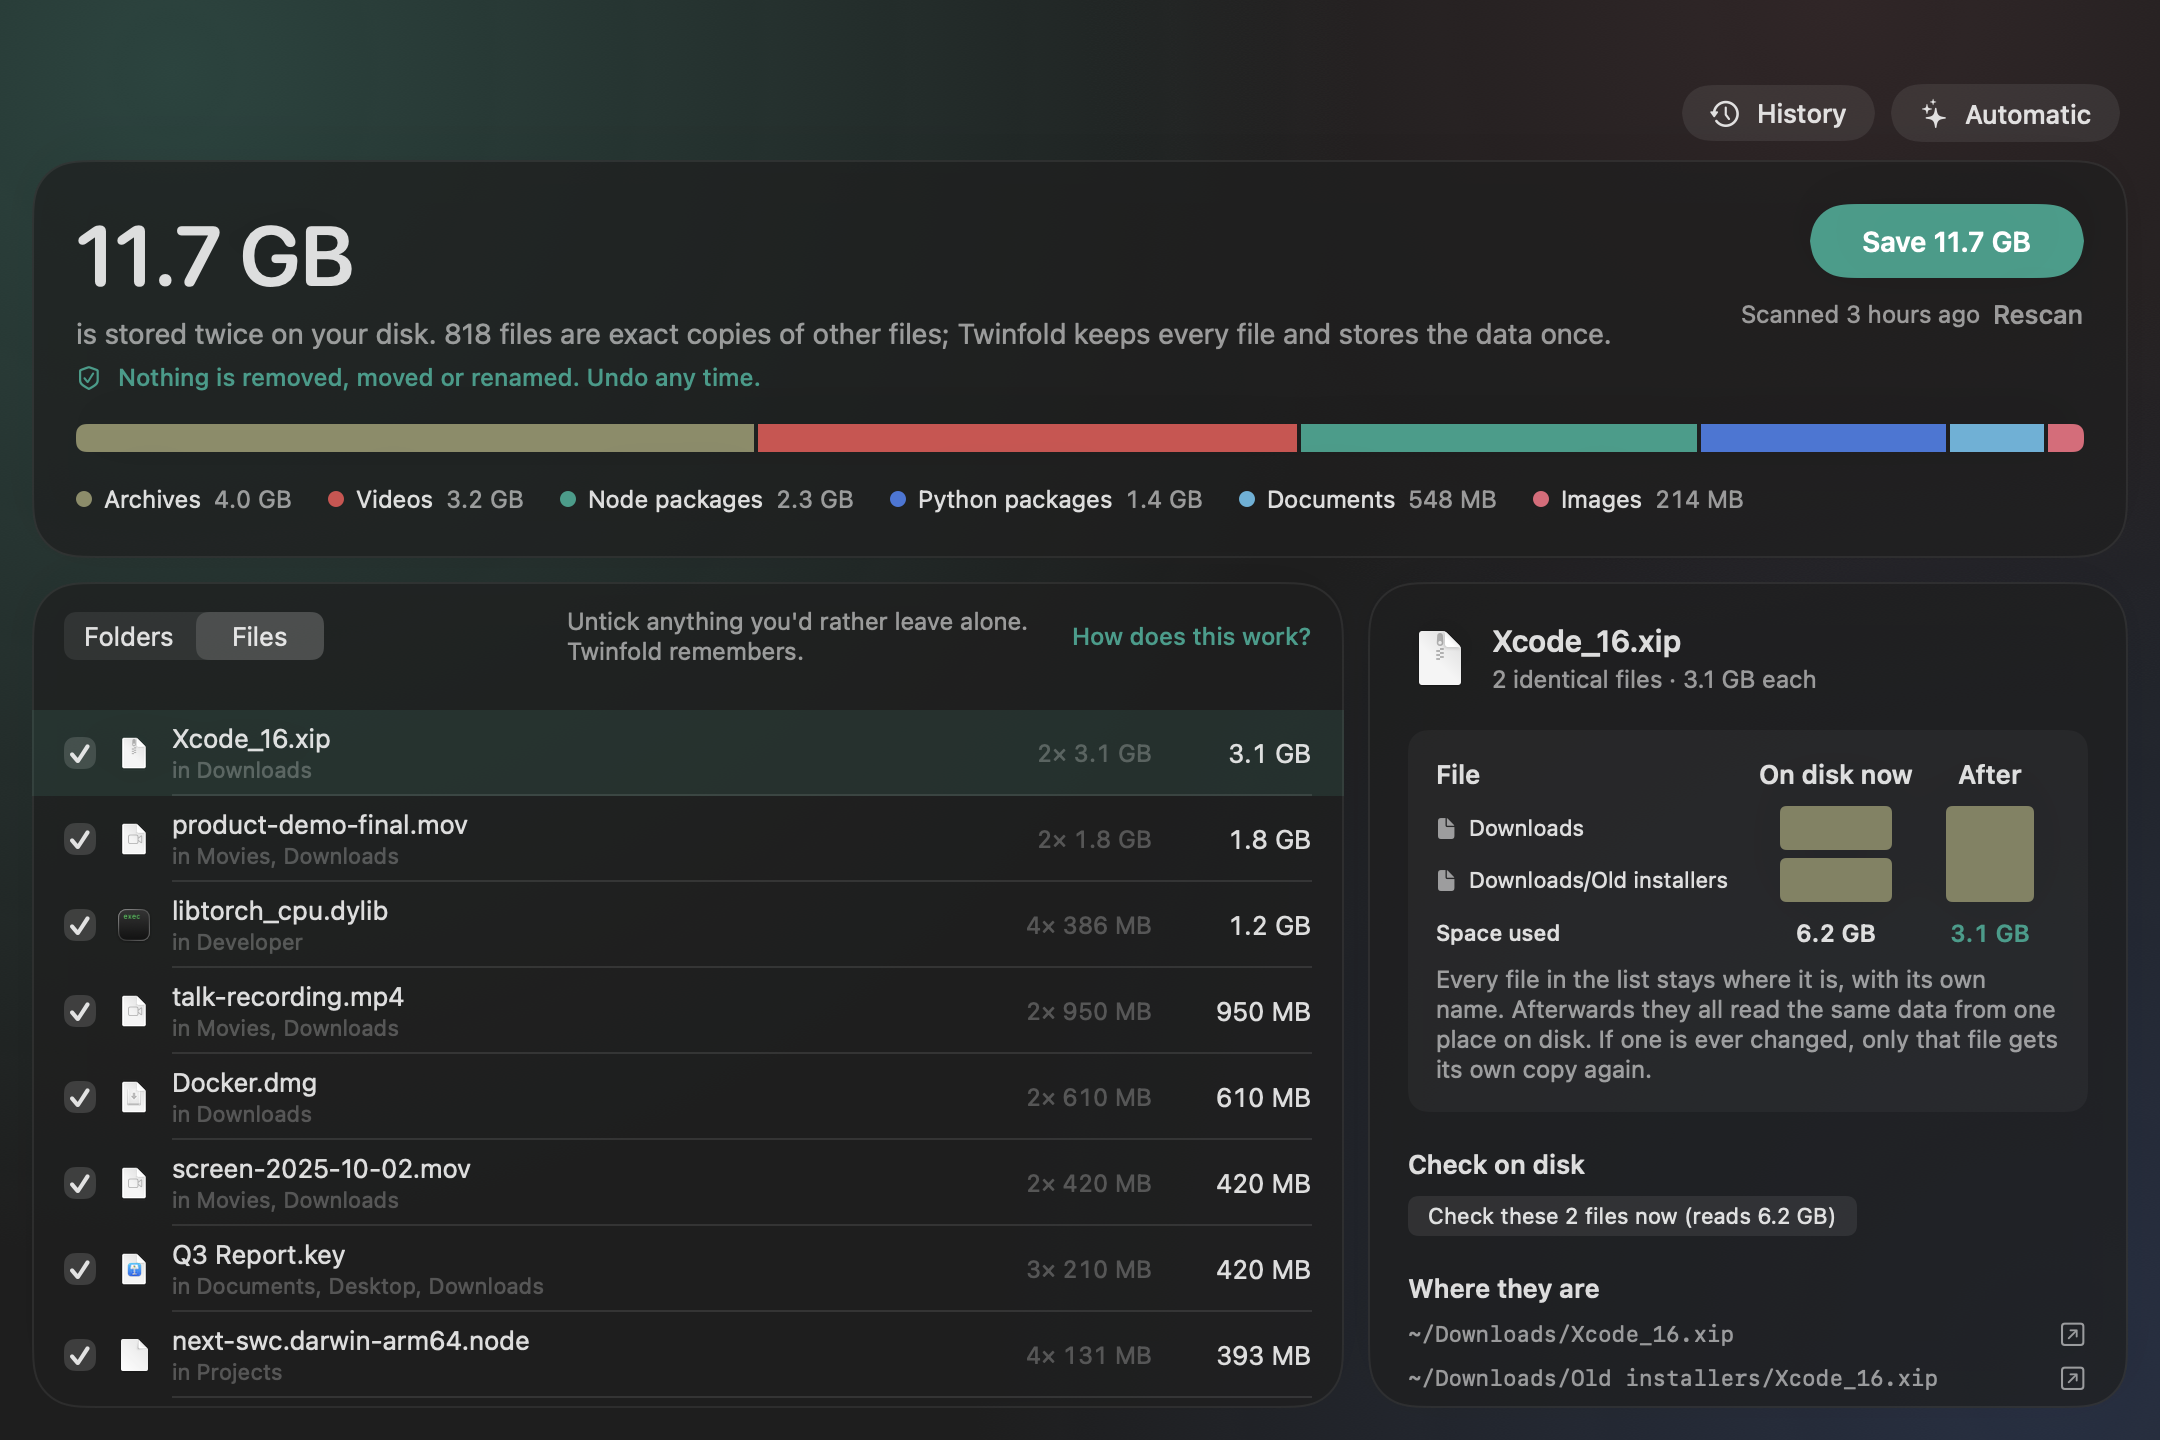
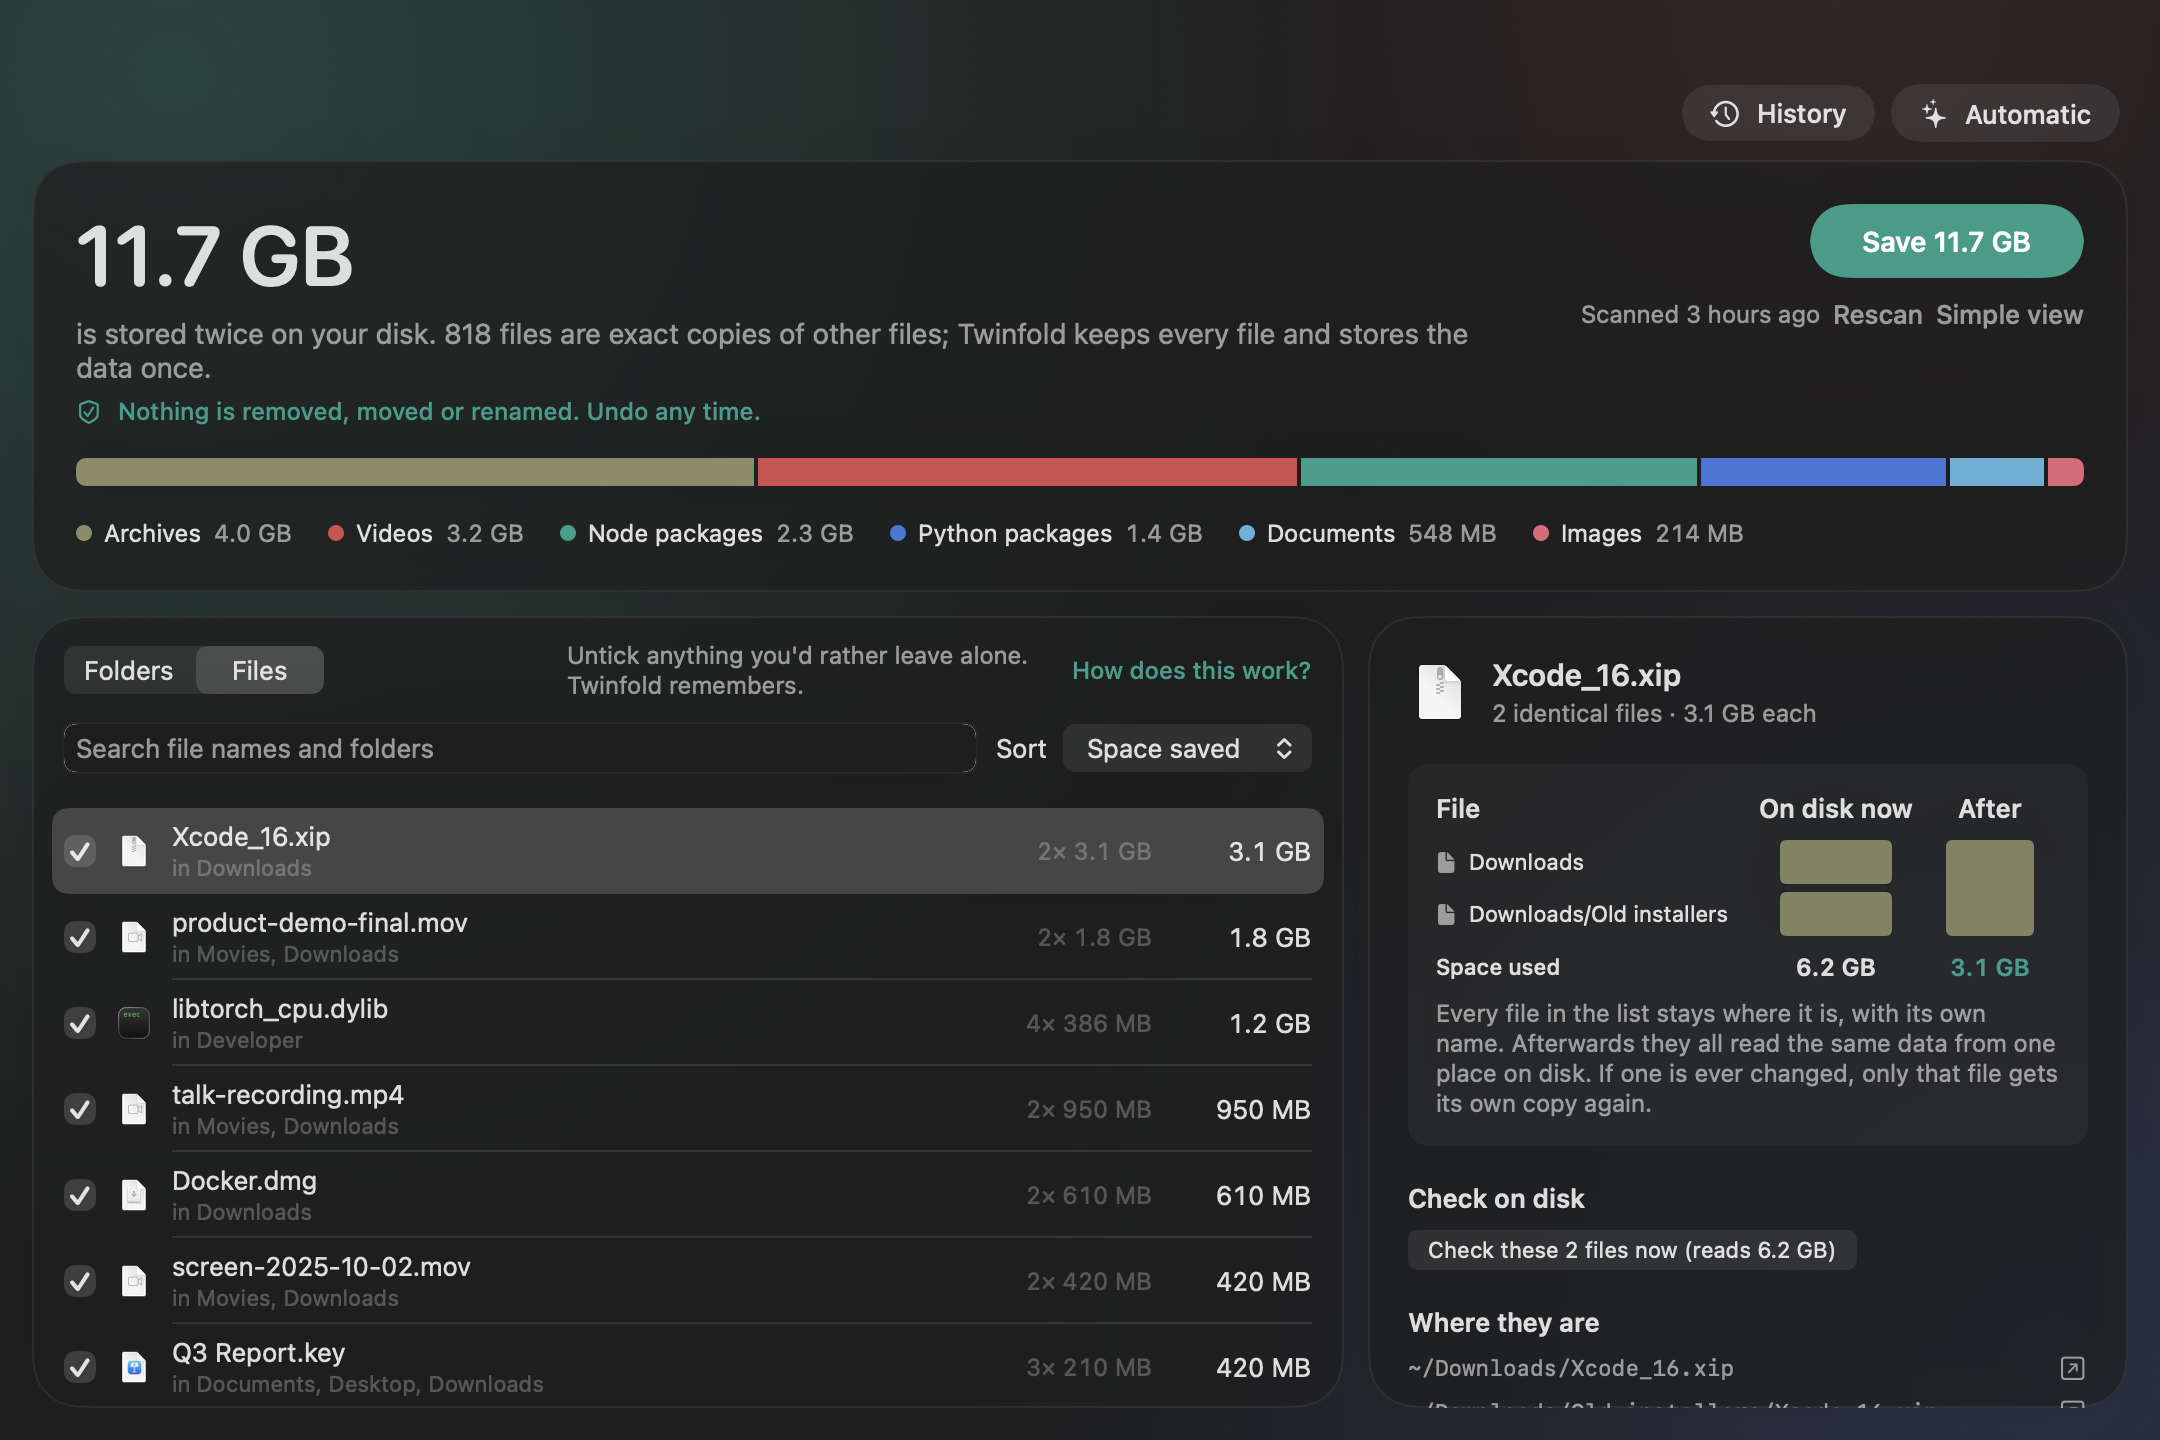
Simple view by default: the number, Save, top folders with checkboxes; Review every file opens the detailed view

diff --git a/Sources/TwinfoldApp/Screens.swift b/Sources/TwinfoldApp/Screens.swift
@@ -263,7 +263,88 @@ struct ScanningView: View {
 
 struct ResultsView: View {
     @Environment(AppModel.self) private var model
+    var body: some View {
+        if model.detailed { DetailedResults() } else { SimpleResults() }
+    }
+}
+
+/// The save confirmation, shared by both result views.
+struct SaveButton: View {
+    @Environment(AppModel.self) private var model
     @State private var confirming = false
+    var body: some View {
+        PrimaryButton(title: "Save \(Format.bytes(model.selectedBytes))", disabled: model.selectedBytes == 0) { confirming = true }
+            .confirmationDialog(
+                "Store \(Format.count(model.selected.count, "duplicate", "duplicates")) only once?",
+                isPresented: $confirming
+            ) {
+                Button("Save \(Format.bytes(model.selectedBytes))") { model.fold() }
+                if model.trialBatch.count < model.selected.count {
+                    let trial = model.trialBatch
+                    Button("Try one set first: \(model.trialName), \(Format.bytes(trial.reduce(0) { $0 + $1.size }))") {
+                        model.fold(trial)
+                    }
+                }
+                Button("Cancel", role: .cancel) {}
+            } message: {
+                Text("Every file stays in its folder with its own name, dates and permissions. Each one is compared byte for byte again right before it changes. You can undo this afterwards, from History too. Not sure yet? Try one set first and check it.")
+            }
+    }
+}
+
+/// The default: how much, one button, and where it is. Everything else is one click away.
+struct SimpleResults: View {
+    @Environment(AppModel.self) private var model
+    var body: some View {
+        let top = model.topFolders
+        let total = max(1, top.reduce(0) { $0 + $1.bytes })
+        Card(width: 620) {
+            VStack(spacing: 6) {
+                Text(Format.bytes(model.selectedBytes))
+                    .font(.system(size: 60, weight: .semibold, design: .rounded))
+                    .contentTransition(.numericText())
+                Text("is stored twice on your disk.")
+                    .font(.system(size: 17))
+                    .foregroundStyle(Color.quiet)
+            }
+            SaveButton()
+            Label("Nothing is removed. Every file keeps working. Undo any time.", systemImage: "checkmark.shield")
+                .font(.system(size: 12, weight: .medium))
+                .foregroundStyle(Color.fold)
+            VStack(spacing: 0) {
+                ForEach(top.prefix(6)) { node in
+                    let included = model.isIncluded(folder: node.path)
+                    HStack(spacing: 10) {
+                        Toggle("", isOn: Binding(get: { included }, set: { _ in model.toggle(folder: node.path) }))
+                            .toggleStyle(.checkbox)
+                            .labelsHidden()
+                            .accessibilityLabel("Include \(node.name)")
+                        Image(nsImage: Icons.folder).resizable().frame(width: 18, height: 18)
+                        Text(node.name).font(.system(size: 14)).lineLimit(1).truncationMode(.middle)
+                            .foregroundStyle(included ? Color.primary : Color.quiet)
+                        Spacer()
+                        SizeBar(fraction: Double(node.bytes) / Double(total), muted: !included)
+                        Text(Format.bytes(node.bytes)).font(.system(size: 14).monospacedDigit())
+                            .foregroundStyle(included ? Color.primary : Color.quiet)
+                            .frame(width: 72, alignment: .trailing)
+                    }
+                    .padding(.vertical, 8)
+                    if node.id != top.prefix(6).last?.id { Divider() }
+                }
+            }
+            .padding(.top, 8)
+            HStack(spacing: 16) {
+                GlassButton(title: "Review every file", icon: "list.bullet") { model.detailed = true }
+                QuietButton(title: "Rescan") { model.scan() }
+                HowItWorksButton()
+            }
+            .padding(.top, 4)
+        }
+    }
+}
+
+struct DetailedResults: View {
+    @Environment(AppModel.self) private var model
 
     var body: some View {
         @Bindable var model = model
@@ -293,29 +374,14 @@ struct ResultsView: View {
                     }
                     Spacer()
                     VStack(alignment: .trailing, spacing: 10) {
-                        PrimaryButton(title: "Save \(Format.bytes(model.selectedBytes))",
-                                      disabled: model.selectedBytes == 0) { confirming = true }
-                            .confirmationDialog(
-                                "Store \(Format.count(model.selected.count, "duplicate", "duplicates")) only once?",
-                                isPresented: $confirming
-                            ) {
-                                Button("Save \(Format.bytes(model.selectedBytes))") { model.fold() }
-                                if model.trialBatch.count < model.selected.count {
-                                    let trial = model.trialBatch
-                                    Button("Try one set first: \(model.trialName), \(Format.bytes(trial.reduce(0) { $0 + $1.size }))") {
-                                        model.fold(trial)
-                                    }
-                                }
-                                Button("Cancel", role: .cancel) {}
-                            } message: {
-                                Text("Every file stays in its folder with its own name, dates and permissions. Each one is compared byte for byte again right before it changes. You can undo this afterwards, from History too. Not sure yet? Try one set first and check it.")
-                            }
+                        SaveButton()
                         HStack(spacing: 6) {
                             if let date = model.scannedAt {
                                 Text("Scanned \(date.formatted(.relative(presentation: .named)))")
                                     .foregroundStyle(Color.quiet)
                             }
                             QuietButton(title: "Rescan") { model.scan() }
+                            QuietButton(title: "Simple view") { model.detailed = false }
                         }
                         .font(.system(size: 12))
                     }

diff --git a/Sources/TwinfoldApp/AppModel.swift b/Sources/TwinfoldApp/AppModel.swift
@@ -23,10 +23,19 @@ final class AppModel {
 
     var report: ScanReport?
     var scannedAt: Date?
-    private(set) var breakdown: Breakdown? { didSet { folderCache = [:] } }
+    private(set) var breakdown: Breakdown? {
+        didSet {
+            folderCache = [:]
+            topFolders = breakdown.map { $0.tree($0.copies).children } ?? []
+        }
+    }
+    /// The first level of the folder tree, for the simple view (computed once per scan).
+    private(set) var topFolders: [FolderNode] = []
     @ObservationIgnored private var folderCache: [String: [Int]] = [:]
 
     // Review state.
+    /// The simple view (number, Save, top folders) unless someone asks to review everything.
+    var detailed = false
     var tab: Tab = .folders
     var kindFilter: Kind?
     var fileQuery = ""
@@ -133,6 +142,7 @@ final class AppModel {
         excludedGroups = []
         recompute()
         focus = breakdown?.groups.isEmpty == false ? .group(0) : nil
+        detailed = false
         phase = .results
     }
 

diff --git a/Sources/TwinfoldApp/Snapshot.swift b/Sources/TwinfoldApp/Snapshot.swift
@@ -42,6 +42,8 @@ enum Snapshot {
                 .environment(\.colorScheme, look == "light" ? .light : .dark), to: out.appendingPathComponent("8-automatic.png"))
         write(FoldAnimation(folded: true).padding(20).background(Color(white: look == "light" ? 0.97 : 0.16))
                 .environment(\.colorScheme, look == "light" ? .light : .dark), to: out.appendingPathComponent("9-folded.png"))
+        await shot("1-simple")
+        model.detailed = true
         await shot("1-folders")
         model.tab = .files
         await shot("2-files")

diff --git a/docs/index.html b/docs/index.html
@@ -118,8 +118,8 @@
 
   <div class="shot">
     <picture>
-      <source media="(prefers-color-scheme: dark)" srcset="images/results-dark.png">
-      <img src="images/results-light.png" alt="Twinfold showing 11.7 GB of identical files, broken down by kind and folder, with every copy listed">
+      <source media="(prefers-color-scheme: dark)" srcset="images/simple-dark.png">
+      <img src="images/simple-light.png" alt="Twinfold showing 11.7 GB of identical files, broken down by kind and folder, with every copy listed">
     </picture>
   </div>
 

diff --git a/README.md b/README.md
@@ -10,8 +10,8 @@
 
 <p align="center">
   <picture>
-    <source media="(prefers-color-scheme: dark)" srcset="docs/images/results-dark.png">
-    <img src="docs/images/results-light.png" width="720" alt="Twinfold showing where identical files take up space, by kind and by folder">
+    <source media="(prefers-color-scheme: dark)" srcset="docs/images/simple-dark.png">
+    <img src="docs/images/simple-light.png" width="720" alt="Twinfold: 11.7 GB is stored twice on your disk, with a Save button and the folders it's in">
   </picture>
 </p>
 
